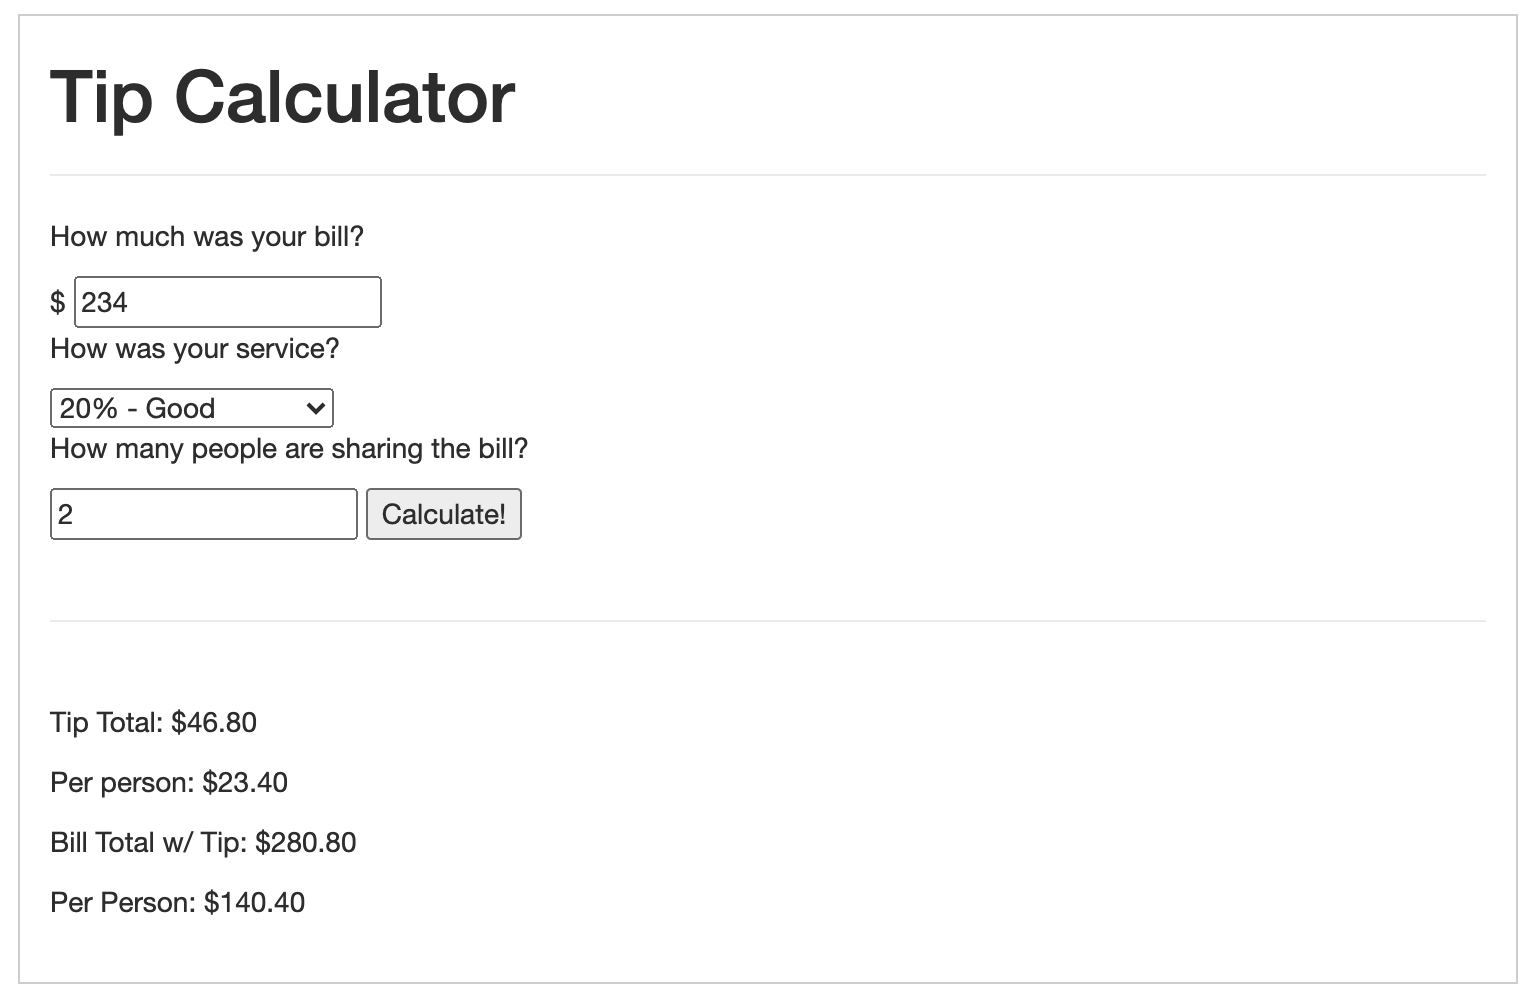
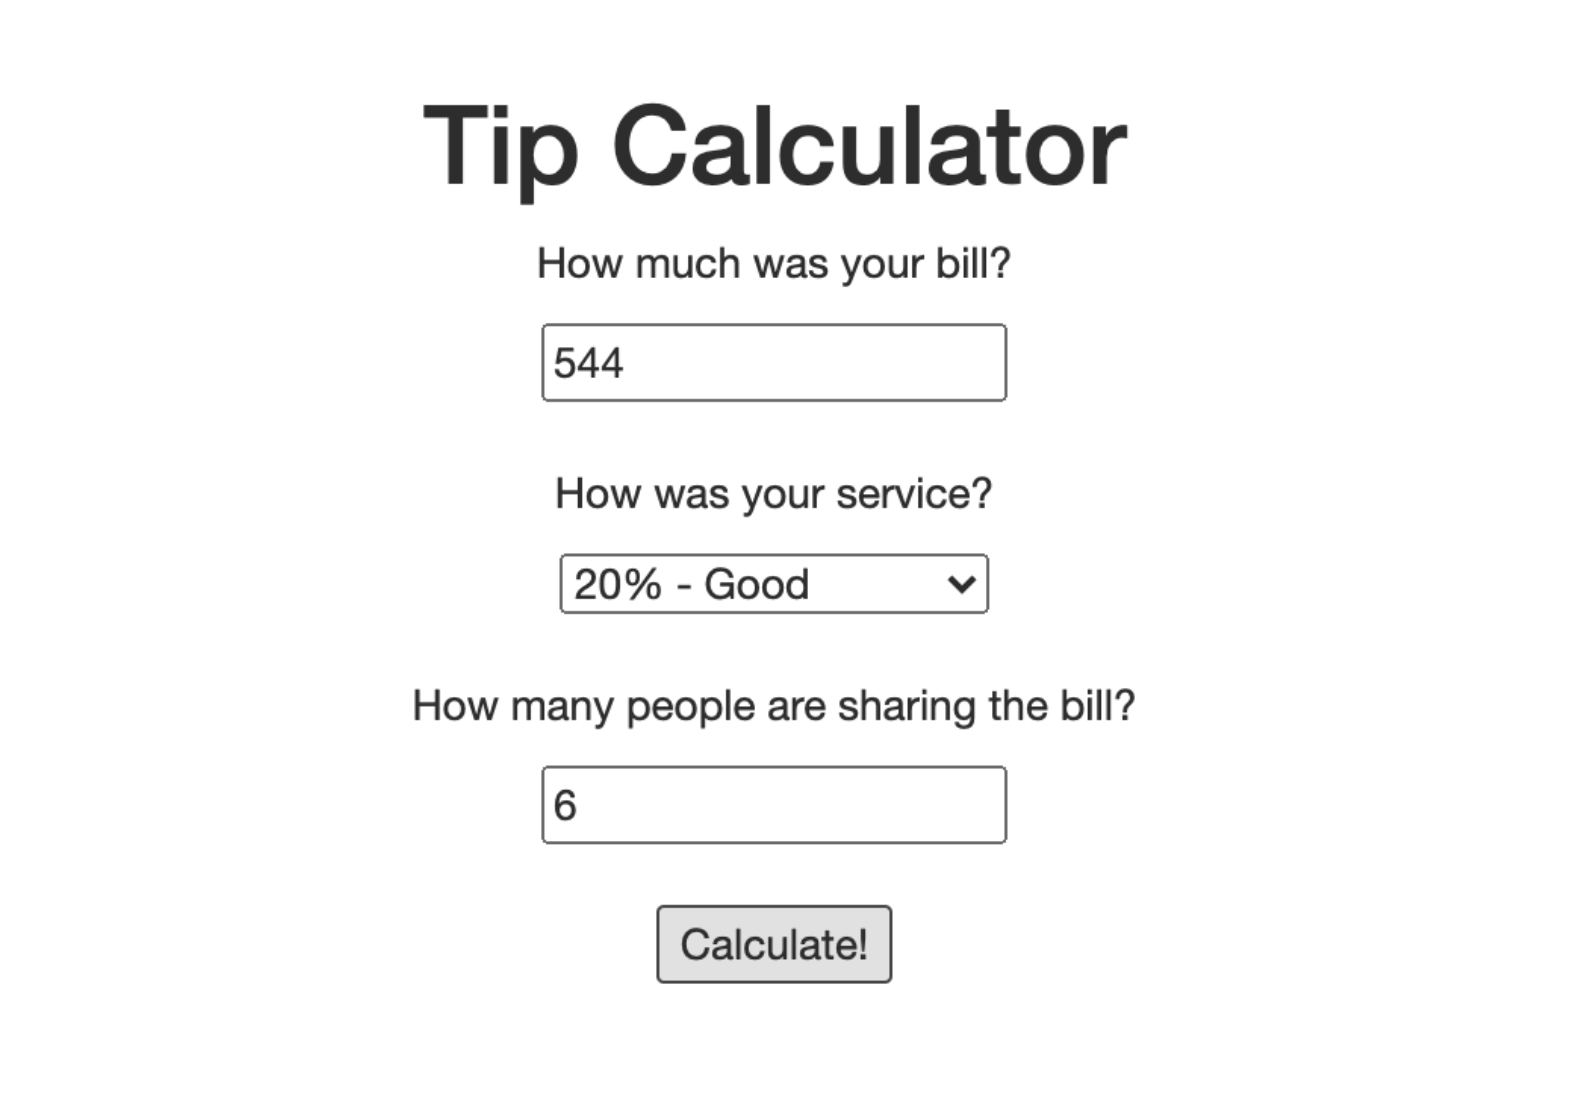
fixed calcs

diff --git a/convertcalculator.js b/convertcalculator.js
@@ -1,6 +1,5 @@
 function convert() {
     var number1 = document.getElementById("number").value;
-    var number2type = document.getElementById("convertType").value;
 
     //validate input
     
@@ -13,27 +12,30 @@ function convert() {
         alert("Please enter values");
         return;
     }
-    var converted;
-    switch(number2type){
-        case "binary":
-            converted = parseInt(value, 10).toString(2);
-            break;
-        case 'octal':
-            converted = parseInt(value, 10).toString(8);
-            break;
-        case "hex":
-            converted = parseInt(value, 10).toString(16);
-            break;
-    }
+    var converted = parseInt(value, 10).toString(2);
+    var converted2= parseInt(value, 10).toString(8);
+    var converted3 = parseInt(value, 10).toString(16);
+
     document.getElementById("result").style.display = "block";
     document.getElementById("tiptotal").style.display = "block";
-    document.getElementById("tiptotal").innerHTML = "= " + converted;
+    document.getElementById("tiptotal").innerHTML = "Binary = " + converted;
+
+    document.getElementById("tiptotal2").style.display = "block";
+    document.getElementById("tiptotal2").innerHTML =  "Decimal = " + converted2;
+
+    document.getElementById("tiptotal3").style.display = "block";
+    document.getElementById("tiptotal3").innerHTML = " Octal= " + converted3;
     
 }
 
 //Hide the tip amount on load
 document.getElementById("tiptotal").style.display = "none";
 document.getElementById("result").style.display = "none";
+
+document.getElementById("tiptotal2").style.display = "none";
+
+document.getElementById("tiptotal3").style.display = "none";
+
 
 
 //click to call function

diff --git a/convert.html b/convert.html
@@ -41,28 +41,24 @@
   <!-- CALC -->
   <br> <br><br>
 
-  <div class = "container calc">
+  <div class = "container calc text-center">
     
     <h1> Calculator Converter</h1>
-    <hr>
     <div class="calculator">
         <form>
-            <p>Decimal Value: <input type="text" placeholder=" Enter Here" id="number"></p>
-            <p>Convert to 
-            <select id="convertType">
-                <option value="binary">Binary </option>
-                <option value="octal">Octal</option>
-                <option value="hex">Hexidecimal</option>
-            </select>
+            <p>Enter number you want to convert:<br> <input type="text"  id="number" onkeyup="convert()"></p>
             </p>
         </form>
-        <button type="button" id="calculate">Calculate!</button>
-        <br><br>
+        <!-- <br><br> -->
 
     </div>
         <div id="result">
-            <hr>
-            <span id="tiptotal"> 0 </span>
+            <!-- <hr> -->
+            <h4>
+            <span id="tiptotal"> Binary </span> 
+            <span id="tiptotal2"> Octal </span>
+            <span id="tiptotal3"> Hex </span>
+            </h4>
             <br>
             
 

diff --git a/tip.html b/tip.html
@@ -40,16 +40,15 @@
 
   <br> <br><br>
    <!-- HERE IS WHERE THE TIP STUFF STARTS -->
-   <div class="calc container">
+   <div class="calc container text-center">
     <h1>Tip Calculator</h1>
-    <hr>
     <div class="calculator">
 
         <form>
             <p>How much was your bill? </p>
             
-                $ <input type="text" placeholder="Bill Amount" id="billamt" >
-            <p>How was your service? </p>
+                <input type="text" id="billamt" > <br>
+           <br> <p>How was your service? </p>
                     <select id="serviceQual">
                         <option disabled selected value="0"> Service Quality</option>
                         <option value="0.3">30&#37; &#45; Outstanding</option>
@@ -59,9 +58,11 @@
                         <option value="0.05">5&#37; &#45; Terrible</option>
                     </select>
         </form>
+        <br>
         <p>How many people are sharing the bill?</p>
         <input type="text" placeholder="Number of People" id="peopleamt">
 
+          <br> <br>
         <button type="button" id="calculate">Calculate!</button>
         <br>
         <br>

diff --git a/style.css b/style.css
@@ -69,6 +69,10 @@ a{
     font-weight: bolder;
     /* background-color: white; */
 }
+#number{
+  background-color: ghostwhite;
+  border: 2px solid lightsteelblue;
+}
 
 h4 {
     padding-top: 15px;
@@ -78,9 +82,9 @@ a{
     font-weight: bolder;
 }
 
-.calc{
+/* .calc{
     border: 1px solid lightgray;
-}
+} */
 
 .side{
     color: #A9A9A9	;
